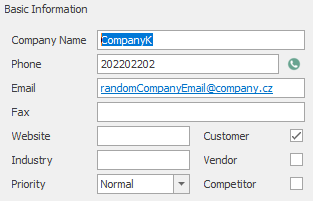
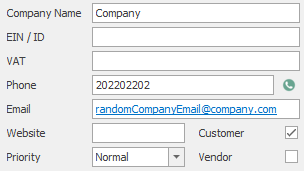
refs #35254: Reflecting on feedback

diff --git a/Examples/EditExistingCompany/Program.cs b/Examples/EditExistingCompany/Program.cs
@@ -32,7 +32,7 @@ namespace ExamplesTesting.EitExistingCompany
                     CompanyName = "Company",
                     Purchaser = "1",
                     Phone = "202202202",
-                    Email = "randomCompanyEmail@company.cz"
+                    Email = "randomCompanyEmail@company.com"
                 }
             }));
         }

diff --git a/Examples/EditExistingCompany/README.md b/Examples/EditExistingCompany/README.md
@@ -16,7 +16,7 @@ wcfConnection.CallMethod("SaveCompany", JObject.FromObject(new
         CompanyName = "Company",
         Purchaser = "1",
         Phone = "202202202",
-        Email = "randomCompanyEmail@company.cz"
+        Email = "randomCompanyEmail@company.com"
     }
 }));
 
